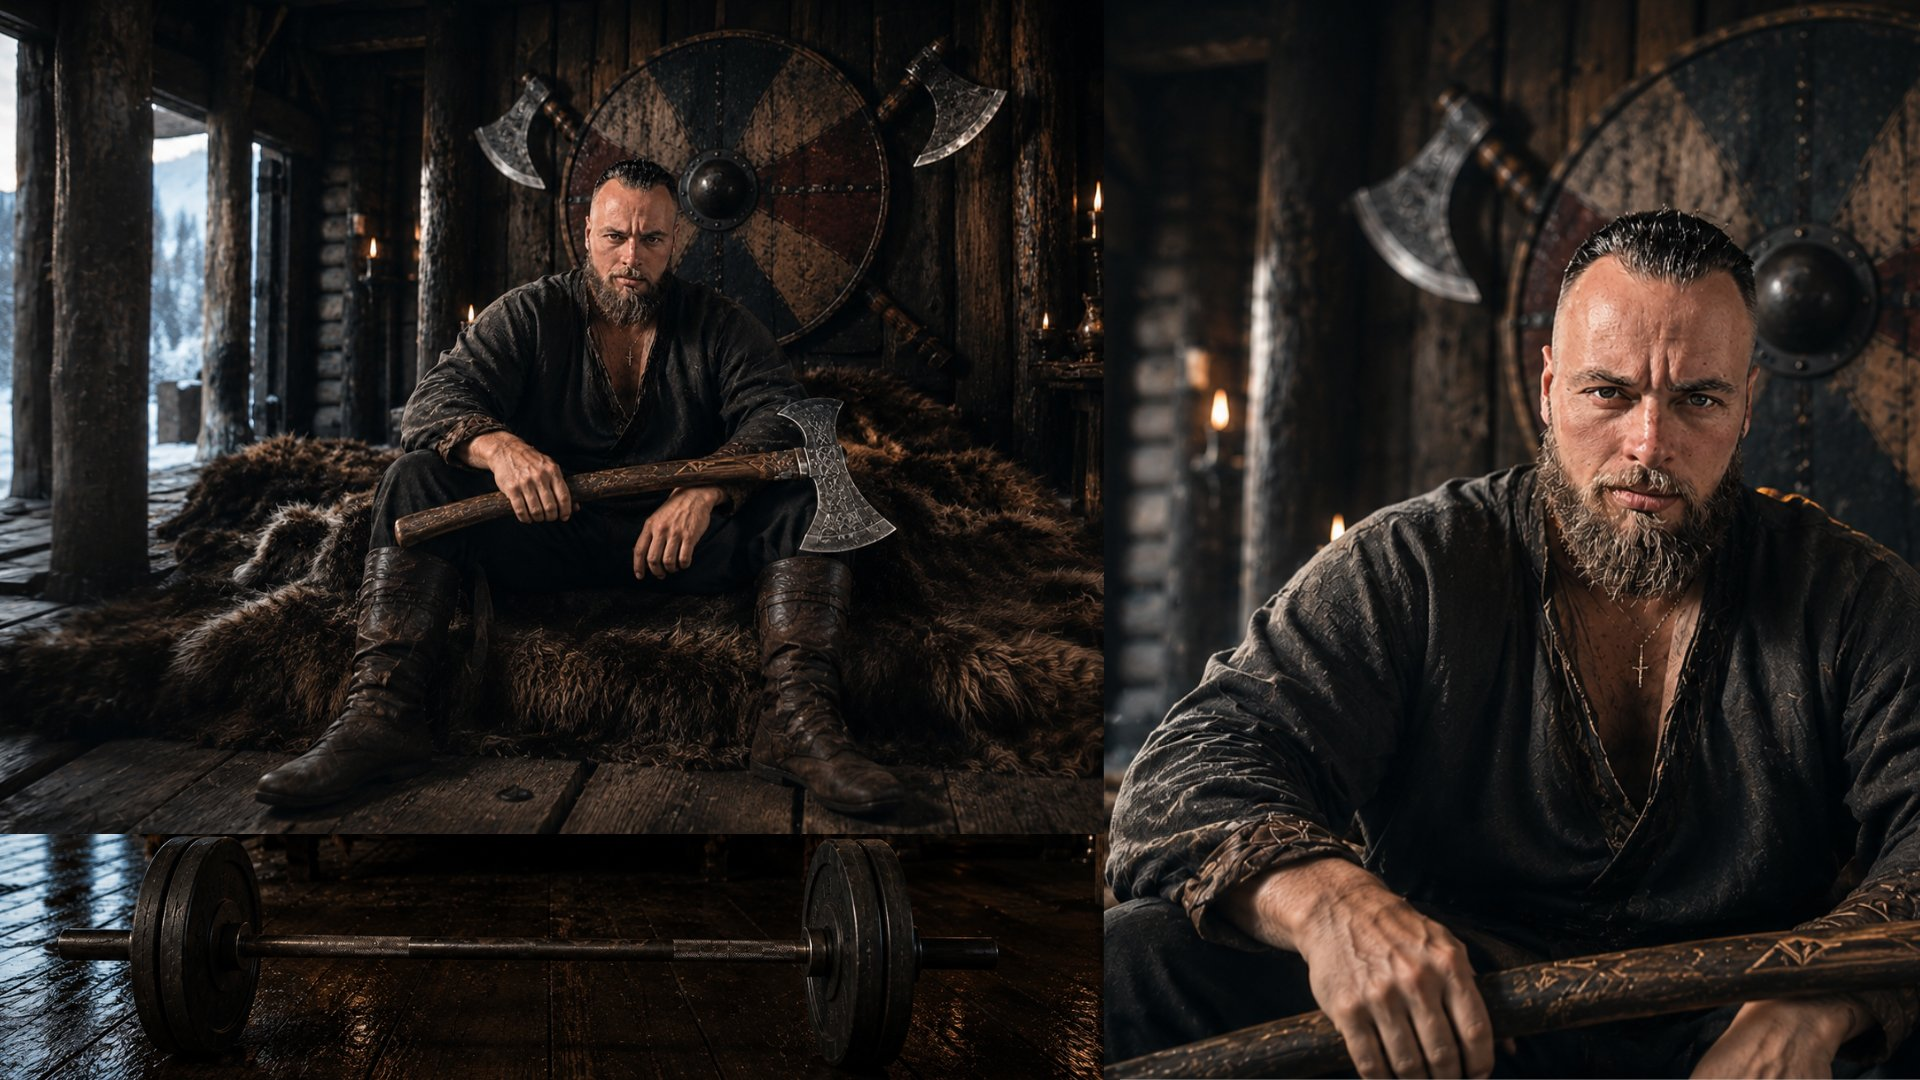
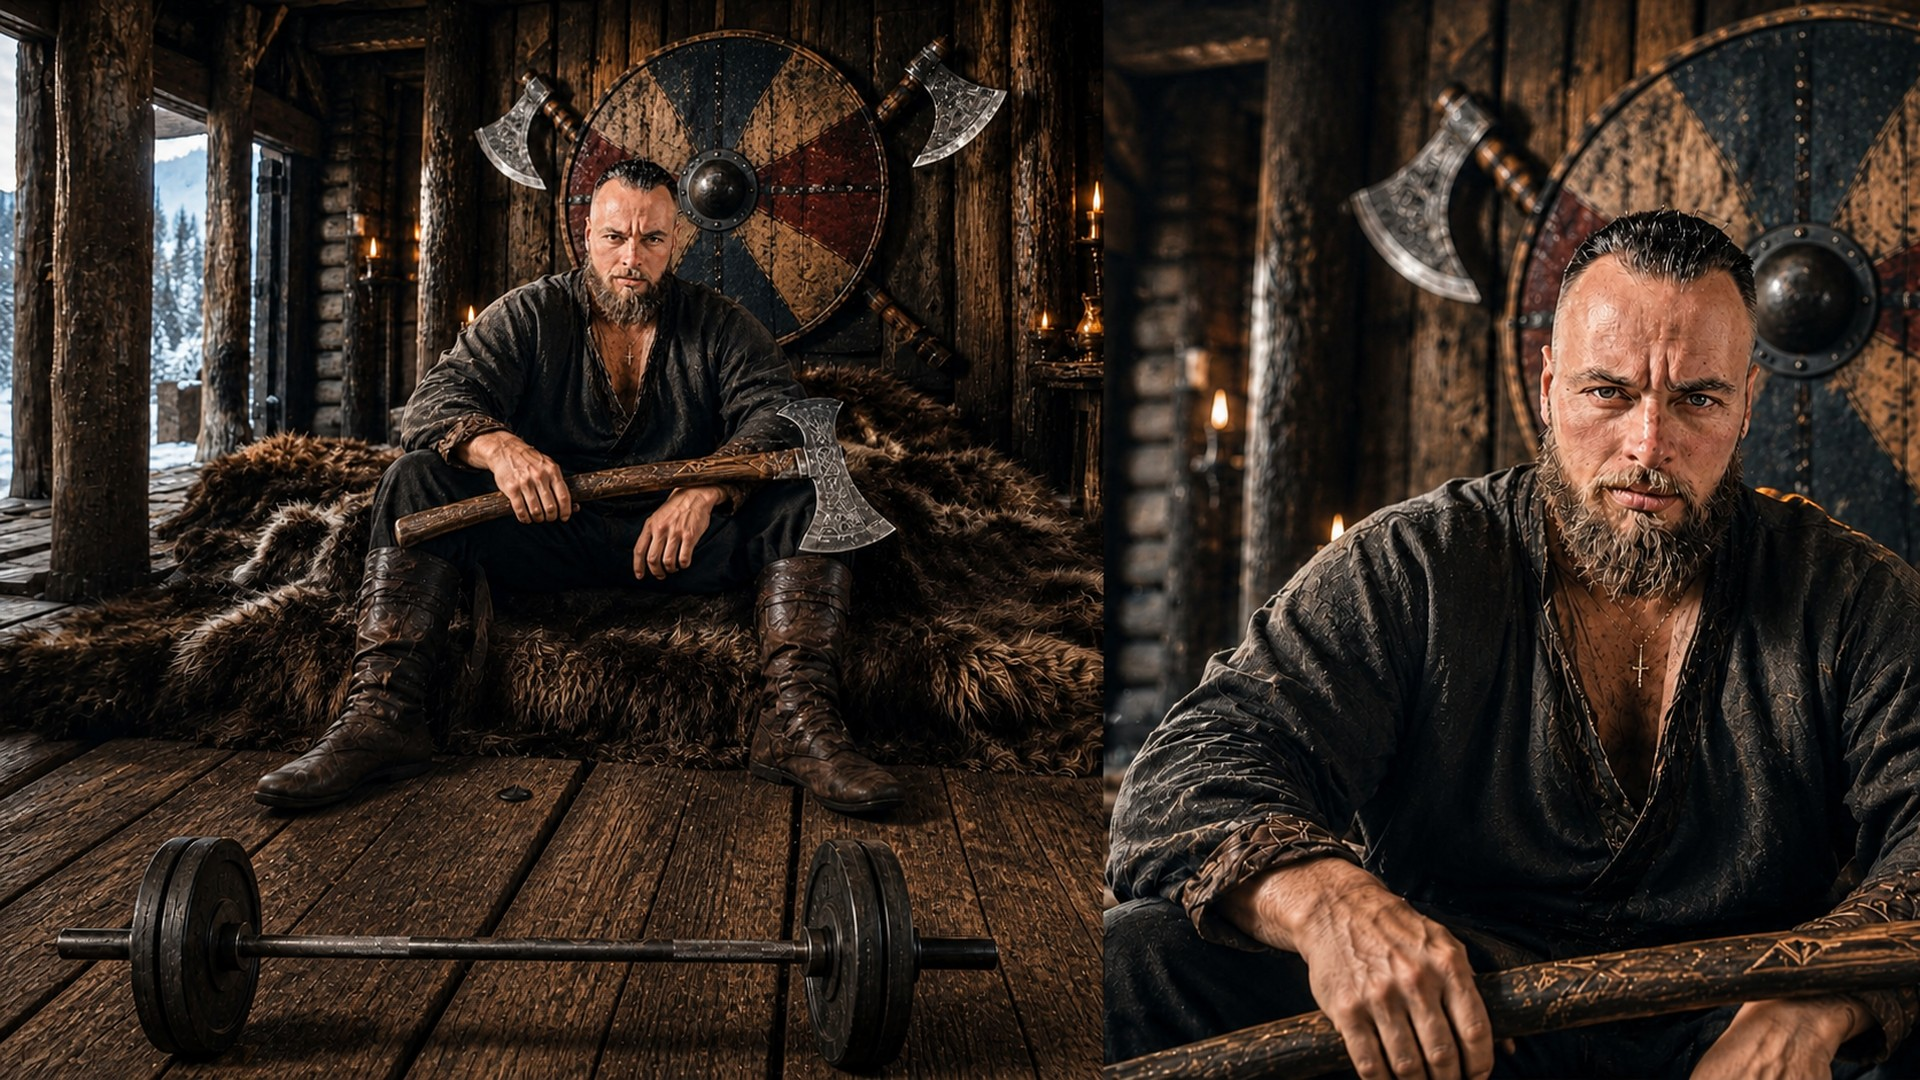
Fix about nav and profile image

diff --git a/assets/js/i18n.js b/assets/js/i18n.js
@@ -11,7 +11,7 @@ es: {
   'portal.hint':'Sube el volumen · ES / EN / FI / NO',
   'portal.hint2':'Puedes silenciarlo cuando quieras desde el icono del menú',
 
-  'nav.method':'Método','nav.training':'Entreno','nav.nutrition':'Nutrición','nav.science':'Ciencia','nav.app':'La App','nav.plans':'Planes','nav.cta':'Abrir la App',
+  'nav.method':'Método','nav.training':'Entreno','nav.nutrition':'Nutrición','nav.science':'Ciencia','nav.app':'La App','nav.about':'Sobre mí','nav.plans':'Planes','nav.cta':'Abrir la App',
   'sound.on':'Activar el sonido del Valhalla','sound.off':'Silenciar el sonido',
 
 
@@ -158,7 +158,7 @@ en: {
   'portal.hint':'Turn the volume up · ES / EN / FI / NO',
   'portal.hint2':'You can mute it any time from the icon in the menu',
 
-  'nav.method':'Method','nav.training':'Training','nav.nutrition':'Nutrition','nav.science':'Science','nav.app':'The App','nav.plans':'Plans','nav.cta':'Open the App',
+  'nav.method':'Method','nav.training':'Training','nav.nutrition':'Nutrition','nav.science':'Science','nav.app':'The App','nav.about':'About me','nav.plans':'Plans','nav.cta':'Open the App',
   'sound.on':'Turn the sound of Valhalla on','sound.off':'Mute the sound',
 
 
@@ -292,7 +292,7 @@ fi: {
   'portal.hint':'Nosta äänenvoimakkuutta · ES / EN / FI / NO',
   'portal.hint2':'Voit mykistää sen milloin tahansa valikon kuvakkeesta',
 
-  'nav.method':'Menetelmä','nav.training':'Harjoittelu','nav.nutrition':'Ravinto','nav.science':'Tiede','nav.app':'Sovellus','nav.plans':'Paketit','nav.cta':'Avaa sovellus',
+  'nav.method':'Menetelmä','nav.training':'Harjoittelu','nav.nutrition':'Ravinto','nav.science':'Tiede','nav.app':'Sovellus','nav.about':'Minusta','nav.plans':'Paketit','nav.cta':'Avaa sovellus',
   'sound.on':'Kytke Valhallan ääni päälle','sound.off':'Mykistä ääni',
 
 
@@ -426,7 +426,7 @@ no: {
   'portal.hint':'Skru opp lyden · ES / EN / FI / NO',
   'portal.hint2':'Du kan slå den av når som helst fra ikonet i menyen',
 
-  'nav.method':'Metoden','nav.training':'Trening','nav.nutrition':'Ernæring','nav.science':'Vitenskap','nav.app':'Appen','nav.plans':'Pakker','nav.cta':'Åpne appen',
+  'nav.method':'Metoden','nav.training':'Trening','nav.nutrition':'Ernæring','nav.science':'Vitenskap','nav.app':'Appen','nav.about':'Om meg','nav.plans':'Pakker','nav.cta':'Åpne appen',
   'sound.on':'Slå på lyden fra Valhall','sound.off':'Slå av lyden',
 
 

diff --git a/assets/css/styles.css b/assets/css/styles.css
@@ -214,7 +214,7 @@ section { position: relative; padding: clamp(64px, 8vw, 120px) 0; }
 .brand-name { font-family: var(--f-display); font-weight: 600; letter-spacing: .04em; font-size: .92rem; }
 .brand-name span { color: var(--gold-lit); }
 
-.nav-links { display: flex; gap: 24px; }
+.nav-links { display: flex; gap: 18px; }
 .nav-links a {
   font-size: .86rem; color: var(--ash); transition: color .2s;
 }
@@ -512,26 +512,12 @@ section { position: relative; padding: clamp(64px, 8vw, 120px) 0; }
   position: absolute;
   inset: 0;
   background:
-    linear-gradient(90deg,
-      transparent 25%,
-      rgba(10,12,15,.7) 34%,
-      rgba(10,12,15,1) 40%,
-      rgba(10,12,15,1) 44%,
-      rgba(10,12,15,.7) 50%,
-      transparent 58%),
-    linear-gradient(180deg,
-      transparent 34%,
-      rgba(10,12,15,.4) 43%,
-      rgba(10,12,15,.55) 46%,
-      rgba(10,12,15,.4) 49%,
-      transparent 56%)
-      no-repeat 0 0 / 48% 100%,
     linear-gradient(0deg,
-      rgba(10,12,15,.6) 0%,
-      rgba(10,12,15,.15) 15%,
-      transparent 35%),
+      rgba(10,12,15,.28) 0%,
+      rgba(10,12,15,.08) 14%,
+      transparent 30%),
     linear-gradient(180deg,
-      rgba(10,12,15,.3) 0%,
+      rgba(10,12,15,.12) 0%,
       transparent 10%);
   pointer-events: none;
 }

diff --git a/index.html b/index.html
@@ -67,6 +67,7 @@
       <a href="#nutricion" data-i18n="nav.nutrition">Nutrición</a>
       <a href="#ciencia" data-i18n="nav.science">Ciencia</a>
       <a href="#app" data-i18n="nav.app">La App</a>
+      <a href="#sobre" data-i18n="nav.about">Sobre mí</a>
       <a href="#planes" data-i18n="nav.plans">Planes</a>
       <a href="app.html" class="only-mobile" data-i18n="nav.cta">Abrir la App</a>
     </nav>
